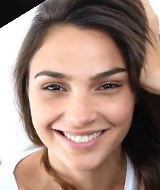
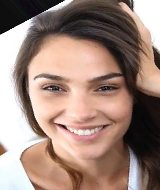
add content in README.md

diff --git a/main.py b/main.py
@@ -78,7 +78,7 @@ def get_points(img):
     return data['points']
 
 if __name__ == "__main__":
-    main("data/both.bmp", "data/affine_both_man.png")
+    #main("data/both.bmp", "data/affine_both_man.png")
     #main("data/both.bmp", "data/affine_both_women.png")
     #main("data/man.jpg", "data/affine_man.png")
-    #main("data/women.jpg", "data/affine_women.png")
+    main("data/women.jpg", "data/affine_women.png")

diff --git a/README.md b/README.md
@@ -1,27 +1,38 @@
-# Affine Transform
-影像處理與機器人視覺
+## Content
+- [Project Description](#project-description)
+- [Code Description](#code-description)
+    - [Read image](#read-image)
+    - [Get anchor point](#get-anchor-point)
+    - [Set the converted template anchor point](#set-the-converted-temlate-anchor-point)
+    - [Caculate Affine Transform](#caculate-affine-transform)
+    - [Generate a new image according to the given template](#Generate-a-new-image-according-to-the-given-template)
+    - [Save image](#save-image)
+- [Result](#result)
 
-## 程式碼說明
-### 讀取影像
+## Project Description
+Affine Transform in geometry means a linear transformation of one vector space, followed by a translation of another.
+
+## Code Description
+### Read image
 ```
 img = cv2.imread(img_path)
 ```
-### 取得定位點
+### Get anchor point
 ```
 points = get_points(img)
 origin_points = np.float32(points)
 ```
-### 設定轉換後的模板定位點
+### Set the converted template anchor point
 ```
 trans_points = np.float32([[65, 90, 1], [95, 90, 1], [80, 120, 1]])
 ```
-### 計算Affine Transform
+### Caculate Affine Transform
 ```
 a = np.dot(f,g.T)
 b = inv(np.dot(g, g.T))
 M = np.dot(a,b) 
 ```
-### 按照給定template生成新影像
+### Generate a new image according to the given template
 ```
 new_img = np.zeros((190, 160, 3))
 for i in range(new_img.shape[0]):
@@ -29,19 +40,19 @@ for i in range(new_img.shape[0]):
         new_pixel = np.float32([j, i, 1]).reshape(-1,1)
         original_pixel=np.dot(M, new_pixel)
 
-        # 將將負數改為0
+        # turn negative numbers into 0
         original_pixel = np.where(original_pixel>0, original_pixel, 0)
 
-        # 對應回原始圖片pixel
+        # Corresponding back to the original picture pixel
         new_img[i, j] = img[int(original_pixel[1]), int(original_pixel[0])]
 ```
-### 儲存影像
+### Save image
 ```
 cv2.imwrite(save_path, new_img)
 ```
 
 ## Result
-- 原始影像/處理後影像
+- original image/processed image
 
 
 <p float="left">
